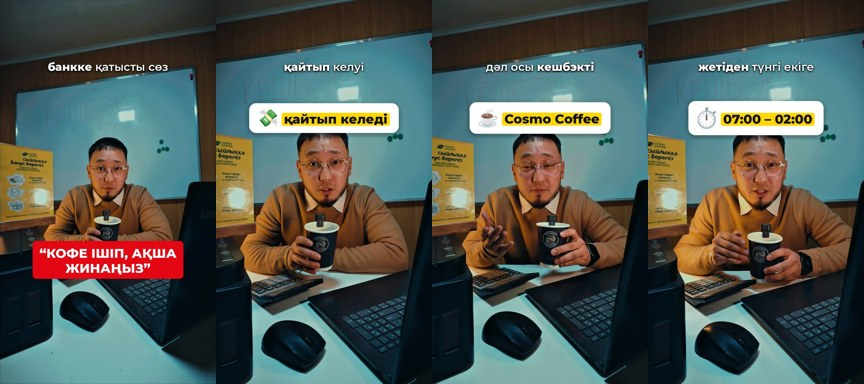
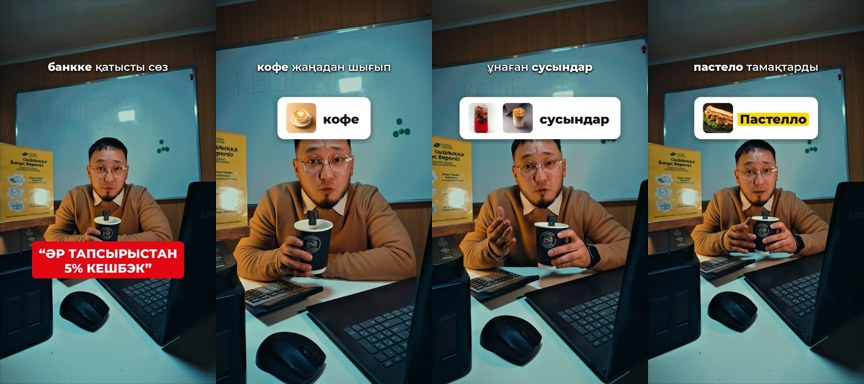
maxkallaway: baqdat — бекітілген мәтін, хук B, мәзір фотолары
Claude-Session: https://claude.ai/code/session_01RrXk5948k87XBUeAUoRL5x

diff --git a/maxkallaway/projects/baqdat/videos.py b/maxkallaway/projects/baqdat/videos.py
@@ -1,22 +1,22 @@
-# maxkallaway конфигі — baqdat (Cosmo Coffee кешбэк). Мәтін пайдаланушы бекіткенге дейін — жоба.
+# maxkallaway конфигі — baqdat (Cosmo Coffee кешбэк). Мәтін пайдаланушы бекіткен.
 CAM_HOOK = dict(y_off=0, hook_x=540, hook_y=1300, sub_y=335)   # видео камерамен басталса (хук кеудеде)
 SCR_HOOK = dict(y_off=0, hook_x=540, hook_y=600, sub_y=335)    # видео экран жазбасымен басталса
 
 VIDEOS = {
  1: dict(CAM_HOOK,
-  hook='“КОФЕ ІШІП, АҚША ЖИНАҢЫЗ”',
-  keys=['кешбэк', 'банкке', 'қайтып', 'Cosmo', '500', 'кофе', 'тіркелесіз', 'сусындар', 'жетіден'],
+  hook='“ӘР ТАПСЫРЫСТАН 5% КЕШБЭК”',
+  keys=['кешбэк', 'банкке', 'қайтып', 'Cosmo', '500', 'кофе', 'тіркелесіз', 'сусындар', 'пастело', 'жетіден'],
   text="""кешбэк ол тек банкке қатысты сөз емес
 кешбэк деген не
 ол сіздің құртқан ақшаңыздың бір бөлігінің сізге қайтып келуі
 мысалға сіз Cosmo Coffee-ден 10 000 теңгеге тапсырыс берсеңіз
 сізге 500 теңге кешбэк болып жиналады
-ол кешбэкті сіз өзіңізге ұнаған кофе жаңадан шығып жатқан шайларды және пасталы заказ беріп
+ол кешбэкті сіз өзіңізге ұнаған кофе жаңадан шығып жатқан шайларды және пастело заказ беріп
 сол кешбэкті өзіңізге пайдалана аласыз
 ал Cosmo Coffee-де дәл осы кешбэкті біз қалай аламыз
 Cosmo Coffee-ге келіп кассирге барып сіз тіркелесіз
 тіркелгеннен кейін сол сәттен бастап шотыңызда кешбэк тапсырыстан жинала беретін болады
-ал сол шотты сіз банкте қайтқандай өзіңізге ұнаған сусындар кофе шай немесе пісірілген тамақтарды тапсырыс беріп өзіңізге пайдалана аласыз
+ал сол шотты сіз бағанағы айтқандай өзіңізге ұнаған сусындар кофе шай немесе пастело тамақтарды тапсырыс беріп өзіңізге пайдалана аласыз
 Cosmo Coffee сіздерді таңғы жетіден түнгі екіге дейін күтетін болады""",
  ),
 }

diff --git a/maxkallaway/projects/baqdat/anims.py b/maxkallaway/projects/baqdat/anims.py
@@ -1,15 +1,15 @@
-# maxkallaway карточкалары — baqdat. cam: адам камераға қараған аралықтар (B-roll, логотип, кесе графикасы шығарылған).
+# maxkallaway карточкалары — baqdat. ('img', ат) — menu/<ат>.webp фотосы (uqr.kz/ru/cosmo-coffee мәзірінен). cam: адам камераға қараған аралықтар (B-roll, логотип, кесе графикасы шығарылған).
 KEEP = set()
 ANIMS = {
  1: dict(cam=[(0.0, 9.8), (15.0, 17.3), (20.6, 27.3), (33.0, 34.3), (37.5, 53.2)], end=55.3, items=[
    ('деген', [('e', '🤔'), ('h', 'КЕШБЭК')], 'pop'),
    ('қайтып', [('e', '💸'), ('h', 'қайтып келеді')], 'pop2'),
-   ('ұнаған', [('e', '☕'), ('t', 'кофе')], 'pop'),
+   ('ұнаған', [('img', 'latte'), ('t', 'кофе')], 'pop'),
    ('пайдалана', [('e', '✅'), ('h', 'пайдалана аласыз')], 'pop2'),
    ('Cosmo', [('e', '☕'), ('h', 'Cosmo Coffee')], 'pop'),
    ('бастап', [('e', '📲'), ('t', 'тіркелу')], 'click'),
-   ('сусындар', [('e', '🥤'), ('t', 'сусындар')], 'pop'),
-   ('тамақтарды', [('e', '🥐'), ('t', 'тамақтар')], 'pop'),
+   ('сусындар', [('img', 'lemonade'), ('img', 'icelatte'), ('t', 'сусындар')], 'pop'),
+   ('пастело', [('img', 'pastello'), ('h', 'Пастелло')], 'pop'),
    ('пайдалана', [('e', '💰'), ('h', 'кешбэкпен төлеу')], 'pop2'),
    ('жетіден', [('e', '⏱'), ('h', '07:00 – 02:00')], 'pop2'),
  ]),
